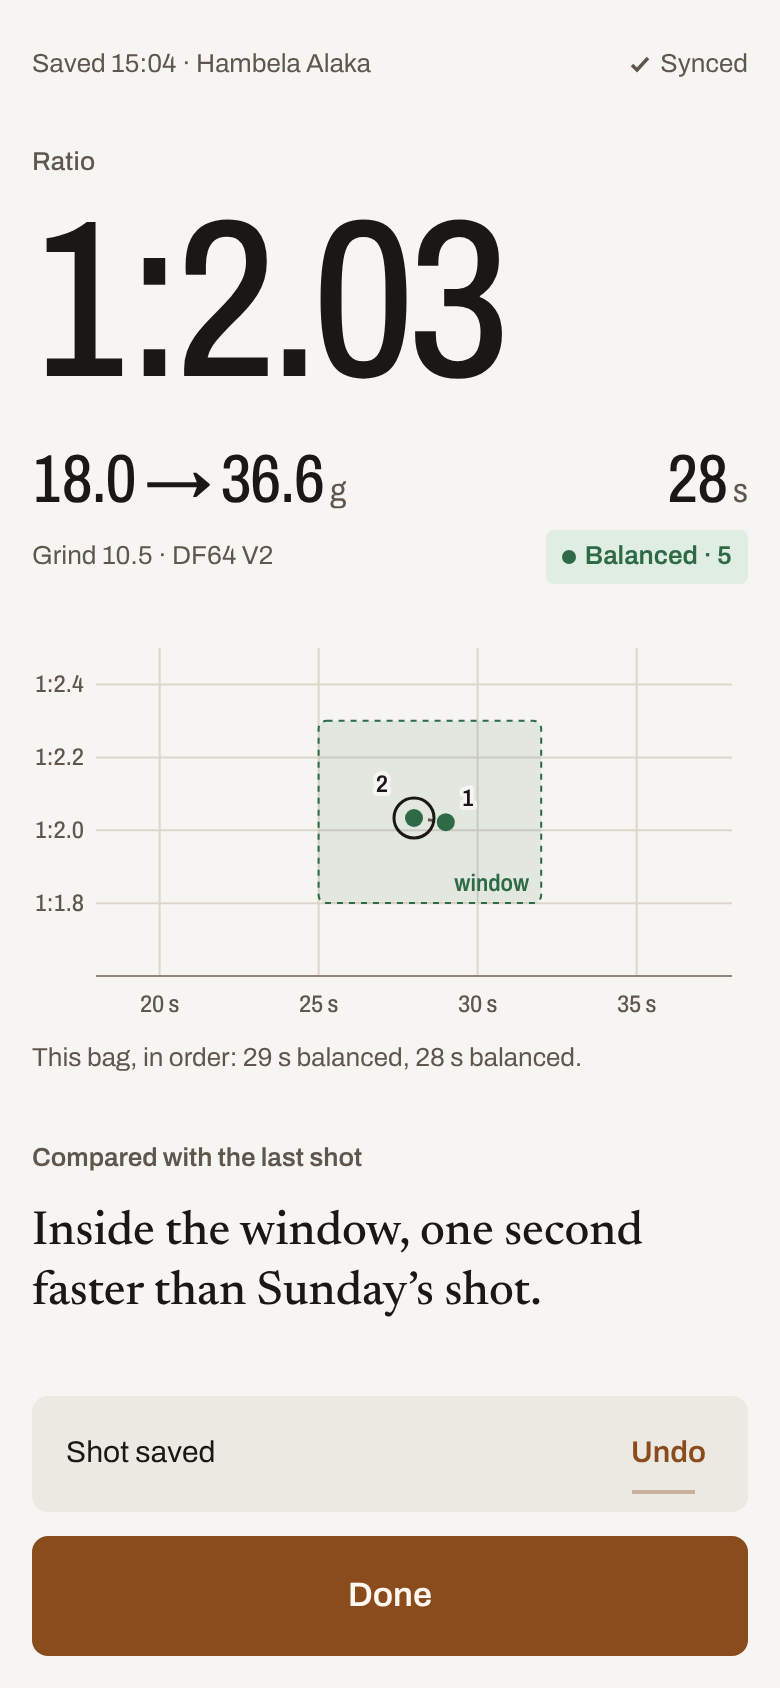
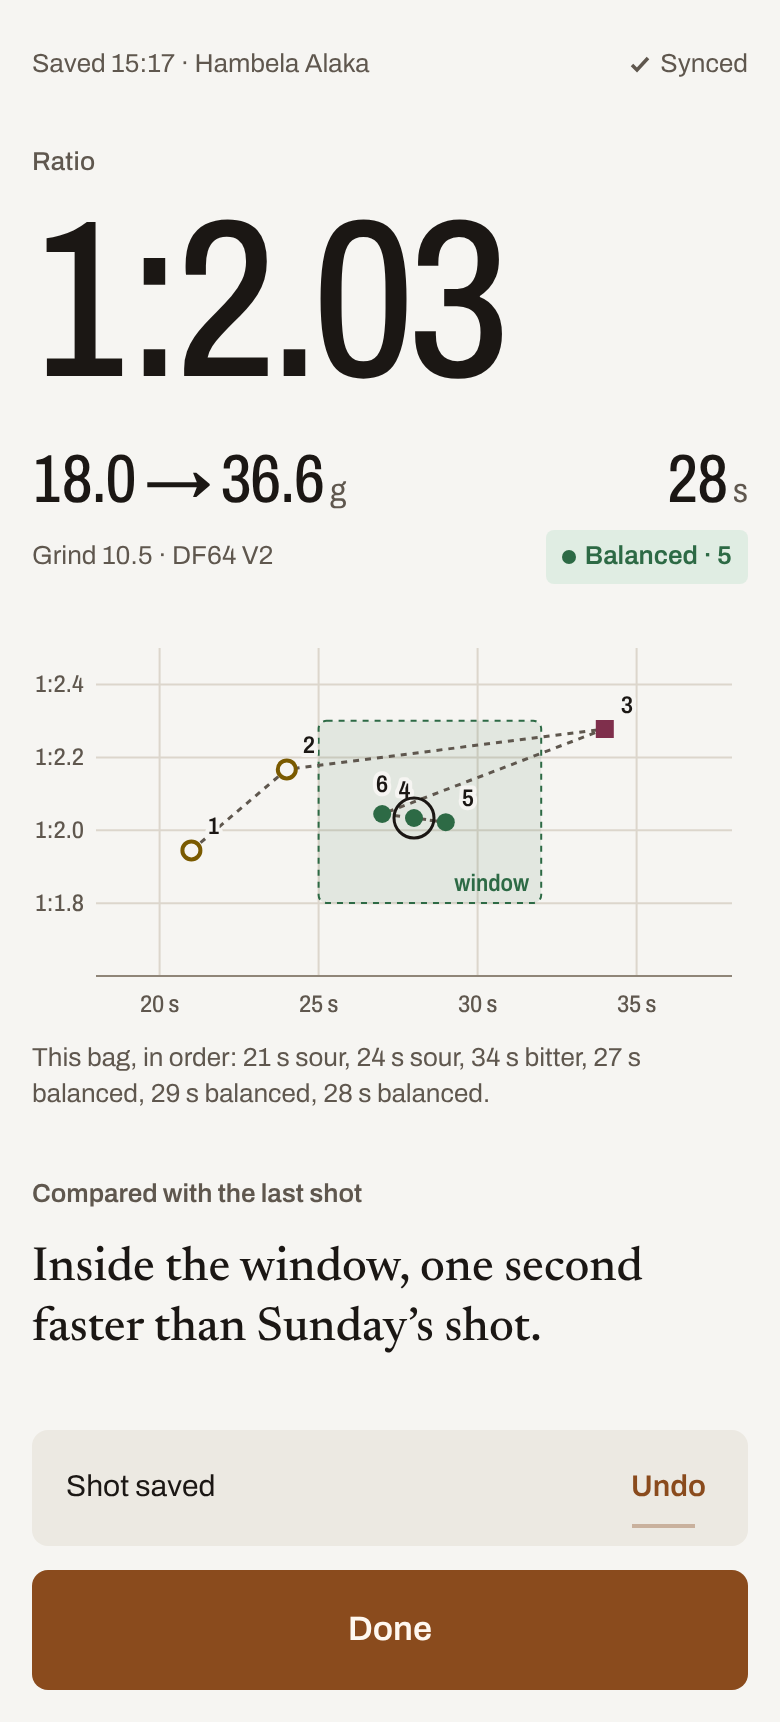
Fill the picked rating again, and seed the screenshots like real use
The review's ring for a picked rating read too weakly in light mode. It's a
solid ink fill again there; dark mode keeps a muted fill with a ring.

The browser test's seeded app now has a bag matched to a one-row catalog
and five shots over three days with mixed tastes, so Today, Log shot and
Saved show the target, the earlier list and the catalog line as in use.

Claude-Session: https://claude.ai/code/session_01TipAHKA6NMKSbbUpjP2ihk

diff --git a/app/static/app.css b/app/static/app.css
@@ -5,19 +5,22 @@
   --ink: #1b1714; --ink-2: #5f574e; --ink-3: #8a8075;
   --accent: #8a4b1d; --accent-fill: #8a4b1d; --on-accent: #fff8f0; --danger: #b3261e;
   --sour: #7a5a00; --sour-bg: #f5eac6; --balanced: #2d6a45; --balanced-bg: #e0ede3;
-  --bitter: #7f2f4c; --bitter-bg: #f3e0e7; --window: rgba(45, 106, 69, .10); }
+  --bitter: #7f2f4c; --bitter-bg: #f3e0e7; --window: rgba(45, 106, 69, .10);
+  --pick: var(--ink); --on-pick: var(--paper); --pick-ring: var(--ink); }
 @media (prefers-color-scheme: dark) { :root:where(:not([data-theme="light"])) { color-scheme: dark;
   --paper: #14110f; --panel: #1d1916; --sheet: #221e1a; --rule: #342e28; --control: #7a6f63;
   --ink: #efe8de; --ink-2: #a99e91; --ink-3: #7c7166;
   --accent: #e0a46e; --accent-fill: #9a5524; --on-accent: #fff8f0; --danger: #f2836f;
   --sour: #e6c45c; --sour-bg: #2c2511; --balanced: #86c79c; --balanced-bg: #15261b;
-  --bitter: #e99ab4; --bitter-bg: #2f1820; --window: rgba(134, 199, 156, .10); } }
+  --bitter: #e99ab4; --bitter-bg: #2f1820; --window: rgba(134, 199, 156, .10);
+  --pick: #453c34; --on-pick: var(--ink); --pick-ring: var(--ink-2); } }
 :root[data-theme="dark"] { color-scheme: dark;
   --paper: #14110f; --panel: #1d1916; --sheet: #221e1a; --rule: #342e28; --control: #7a6f63;
   --ink: #efe8de; --ink-2: #a99e91; --ink-3: #7c7166;
   --accent: #e0a46e; --accent-fill: #9a5524; --on-accent: #fff8f0; --danger: #f2836f;
   --sour: #e6c45c; --sour-bg: #2c2511; --balanced: #86c79c; --balanced-bg: #15261b;
-  --bitter: #e99ab4; --bitter-bg: #2f1820; --window: rgba(134, 199, 156, .10); }
+  --bitter: #e99ab4; --bitter-bg: #2f1820; --window: rgba(134, 199, 156, .10);
+  --pick: #453c34; --on-pick: var(--ink); --pick-ring: var(--ink-2); }
 @media (prefers-contrast: more) { :root { --rule: var(--control); } }
 
 /* Self-hosted and subset (see fonts/LICENSE.md): Archivo keeps wdth 72–100 and wght 400–600; Newsreader is weight 500
@@ -177,9 +180,10 @@ details + .section.group { margin-top: 24px; }
 .pips button { min-height: 56px; border-radius: 8px; border: 1px solid var(--control); font-size: 1.25rem;
   font-stretch: 80%; font-weight: 500; font-variant-numeric: tabular-nums; }
 .pips button { background: var(--sheet); }
-/* One "selected" look for rating and two-way choices: a ring, never a solid ink block (too bright in a dark kitchen) */
-.pips [aria-pressed="true"], .seg.two [aria-pressed="true"] { background: var(--panel); color: var(--ink);
-  box-shadow: inset 0 0 0 2px var(--ink); }
+/* Rating and two-way choices: filled when picked. Ink in light; in dark a muted fill with a ring, since a solid
+   near-white block glares in a dark kitchen. */
+.pips [aria-pressed="true"], .seg.two [aria-pressed="true"] { background: var(--pick); color: var(--on-pick);
+  border-color: var(--pick); box-shadow: inset 0 0 0 2px var(--pick-ring); }
 .chip[aria-pressed="true"] { background: var(--panel); box-shadow: inset 0 0 0 1px var(--accent); } /* a ring: Save keeps the only fill */
 .anchors { display: flex; justify-content: space-between; font-size: 0.75rem; color: var(--ink-2); padding: 4px 8px 0; }
 .hint { font-size: 0.8125rem; color: var(--danger); min-height: 1.45em; margin-top: 8px; } /* room for one line: no jump */

diff --git a/tests/test_app_browser.py b/tests/test_app_browser.py
@@ -67,8 +67,15 @@ def test_app_in_a_browser(lake, tmp_path):
     c = TestClient(app)
     w = {"X-Requested-With": "test"}
     assert c.post("/api/signin", json={"username": "jtouley", "password": PW}, headers=w).status_code == 200
-    # A shot two days ago, so the saved screen has something to compare with.
+    # A bag matched to a (one-row) catalog, with a few days of shots, so the screenshots look like real use. The
+    # latest, two days ago, is what the saved screen compares with.
     earlier = datetime.now(UTC).date() - timedelta(days=2)
+    con = lake.connect()
+    con.execute(
+        "create table c as select 'example.com:1' coffee_id, 'Hambela Alaka' title, 'Larkspur Roasting' roaster_name,"
+        " 'Ethiopia' origin_country, 'washed' process"
+    )
+    lake.write_mart("dim_coffee", con, "select * from c")
     for body in (
         {
             "equipment_id": "g1",
@@ -85,11 +92,33 @@ def test_app_in_a_browser(lake, tmp_path):
         "/api/bags",
         json={
             "bag_id": "bag1",
+            "coffee_id": "example.com:1",
             "coffee_freetext": "Hambela Alaka",
             "roast_date": str(earlier - timedelta(days=5)),
         },
         headers=w,
     )
+    for i, (t, taste, grind, rating) in enumerate(
+        [(21, "sour", 12, 2), (24, "sour", 11.5, 3), (34, "bitter", 10, 2), (27, "balanced", 10.5, 4)]
+    ):
+        day = earlier - timedelta(days=2 - i // 2)
+        c.post(
+            "/api/shots",
+            json={
+                "shot_id": f"dial{i}",
+                "brewed_at": f"{day}T{7 + i % 2 * 7:02d}:0{i}:00Z",
+                "bag_id": "bag1",
+                "grinder_id": "g1",
+                "basket_id": "b1",
+                "dose_g": 18,
+                "yield_g": [35.0, 39.0, 41.0, 36.8][i],
+                "time_s": t,
+                "grinder_setting": grind,
+                "rating": rating,
+                "taste": taste,
+            },
+            headers=w,
+        )
     c.post(
         "/api/shots",
         json={
@@ -132,7 +161,8 @@ def test_app_in_a_browser(lake, tmp_path):
     shot_id = r.stdout.strip()
     # The browser's shot was saved, then retracted by Undo: two records, no current shot.
     assert len(list((lake.root / "shots").glob(f"{shot_id}__*.parquet"))) == 2
-    assert [s.shot_id for s in shots.load_shots(lake)] == ["first"]
+    assert [s.shot_id for s in shots.load_shots(lake)][-1] == "first"
+    assert all(s.shot_id != shot_id for s in shots.load_shots(lake))
     screens = ("owner-setup", "first-run", "setup-empty", "new-bag", "offline", "not-found", "sign-in")
     screens += ("sign-in-error", "today", "log-shot", "saved", "setup")
     assert {p.name for p in out.iterdir()} >= {f"{n}-{m}.png" for n in screens for m in ("light", "dark")}
